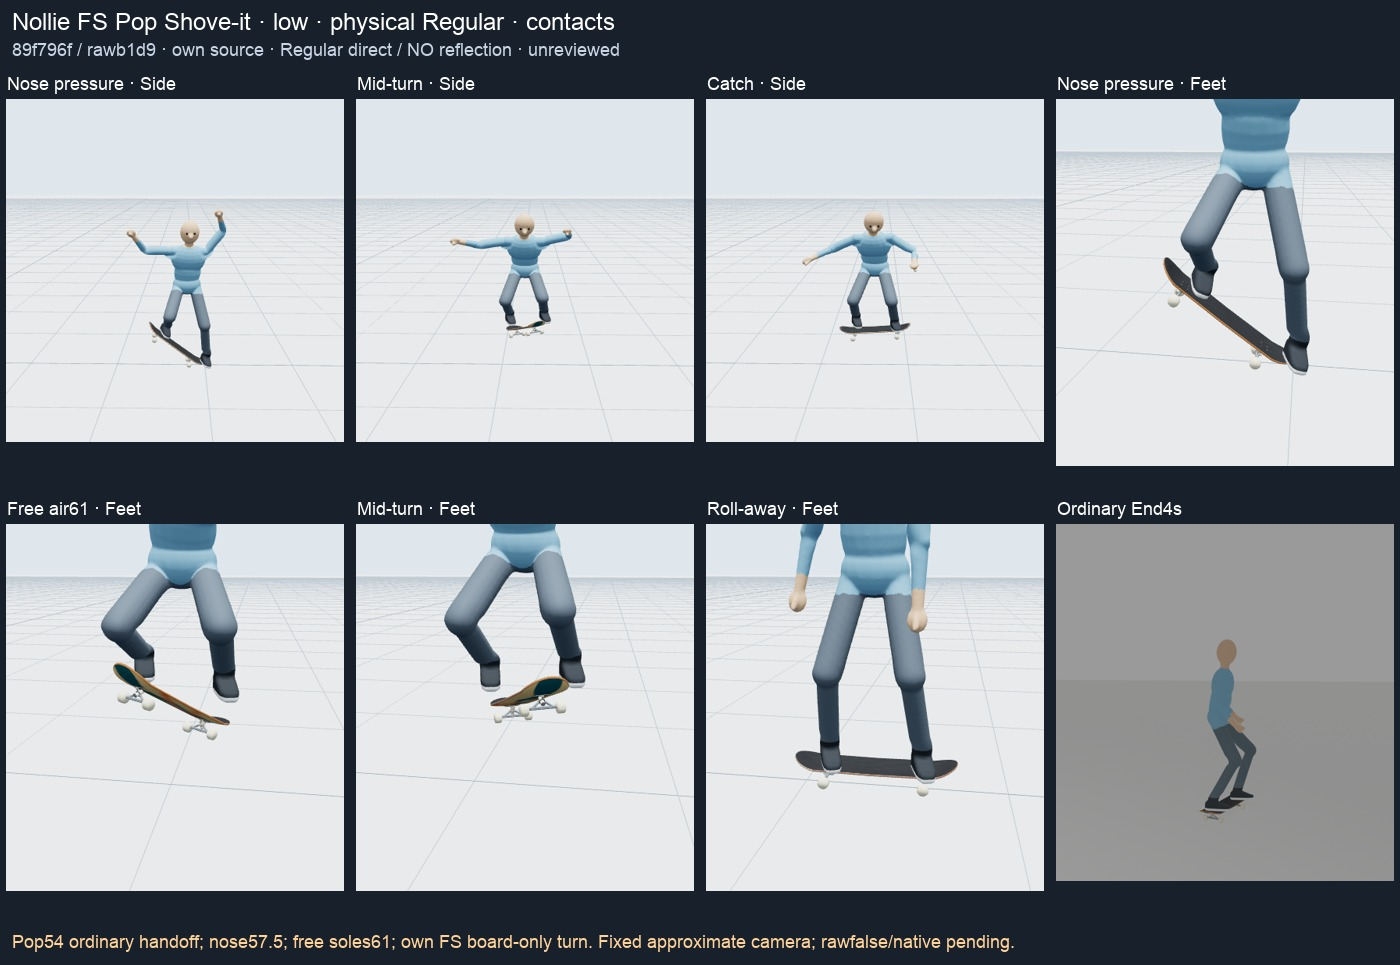
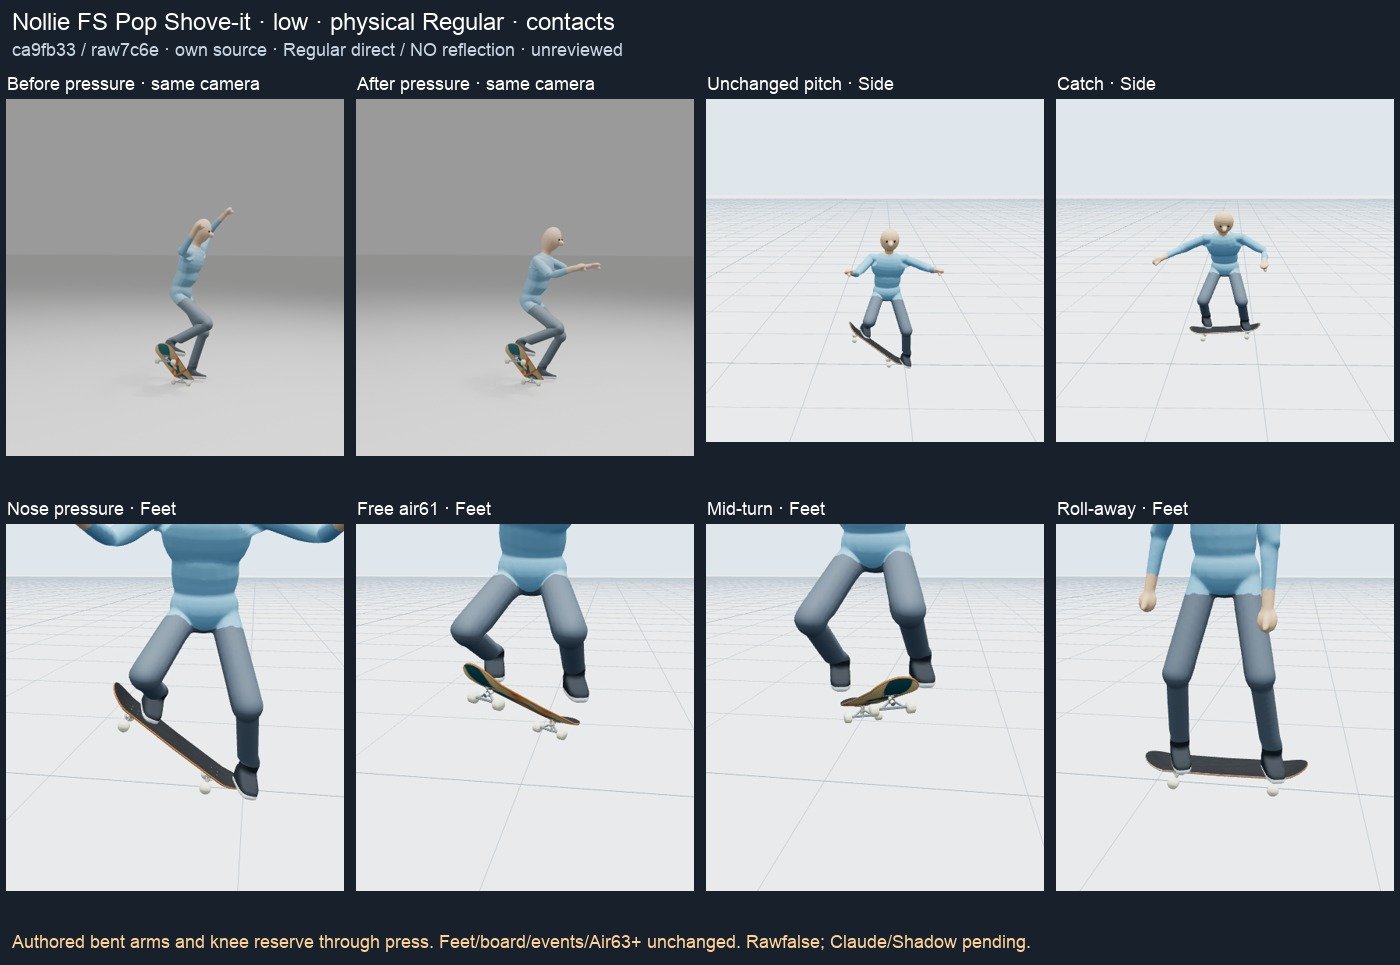
Show repaired Nollie FS press balance on the original rig

diff --git a/docs/review-media/a5-nollie-fs-pop-shove/README.md b/docs/review-media/a5-nollie-fs-pop-shove/README.md
@@ -1,15 +1,17 @@
-# Nollie FS Pop Shove-it — own source and original-rig review
+# Nollie FS Pop Shove-it — press balance repair
 
-[Viewer](http://127.0.0.1:63761/a5-nollie-fs-pop-shove/) · [batch A5 #716](https://github.com/Dj-Shortcut/rust-skate-mod/issues/716) · [genuine source](https://www.youtube.com/watch?v=tL8Ey9GS0xQ&t=182).
+[Viewer](http://127.0.0.1:63761/a5-nollie-fs-balance/) · [A5 review #716](https://github.com/Dj-Shortcut/rust-skate-mod/issues/716#issuecomment-6567110165) · [genuine source](https://www.youtube.com/watch?v=tL8Ey9GS0xQ&t=182).
 
-This uses the continuous black-shirt/cap take in the existing BATB13 excerpt, not the later reviewed/rebated white attempt. Own anatomy checks on approach, pop overlap, tattooed right arm and rollaway support Regular/Left-nose; no source anatomy reflection is applied. Goofy is the explicitly mirrored runtime companion, not another filmed take. The camera is one fixed estimate from the source deck/hip projection; source pixels are never mirrored and no body/native heading rotation is used to hide a mismatch.
+The review rejected the overhead V arms and extended nose-support leg. Both arms now bend around/below shoulder height, and the pelvis lowers through the pressure window. This is an explicitly authored balance correction, not new source measurement. The same-camera before/after and Side details show the change on the original skin and full 13-part skateboard.
 
-The real rider begins rising at 54, presses the nose at 57.5, releases by 59 / free61, catches around 66.5 / both68 and lands 73, then rolls upright. Those are authored visual estimates, not calibrated 3D measurements. Pop54 is the ordinary-charge handoff/extension start, distinct from maximum nose pressure. Source49 at Load is an explicit procedural phase witness. A new-family presentation root blend reaches the source earlier; real Pad input, native flight/landing/scoring and strict support/reach/shoe/floor guards stay authoritative. The body stays unspun while the board alone turns FS180; feet/toe headings are preserved across deck reversal.
+The original deck pitch is retained. Actual animated GLB nose elevation at the published pressure frame is about37° down for normal height and38° for low, in both physical stances. A separate Side view makes that visible; the source camera, native heading and geometry are unchanged. All board, foot, contact and event values remain identical. All215 complete source rows from Air63 onward and all actual Air63+/recovery body rows remain identical to the accepted presentation; the four entire native traces are unchanged.
 
-Own strict VIDEO extraction selected 82/84 frames. Raw frames 68/69 remain rejected; only bracketed control reconstruction bridges them. Animation frames 30–98 excludes the cropped early cap/head; the next actor cut at 104 is excluded. Far left-wrist depth and contacts/pelvis are deliberately reconstructed from this take. No A4 or other-trick body is loaded. Footage and detector output remain private.
+This remains the same continuous black-shirt/cap BATB13 take: raw20–103, animation30–98, next actor cut104 excluded. Regular/Left-nose is supported by the actual leading leg and tattooed-right-arm witnesses; no source anatomy reflection is applied. Goofy is the mirrored runtime companion, not another filmed take. Original reference pixels and detector output stay private. Raw68/69 remain rejected, with the previous explicitly bracketed reconstruction retained.
 
-Eight rig-only phase/contact sheets cover normal/low and physical Regular/Goofy. They use the original skin/inverse binds and full 13-part board. Animated GLB foot-bone audits, not requested-native labels, determine captions: native Goofy displays physical Regular/Left lead; native Regular displays physical Goofy/Right lead. Side and Feet views expose nose pressure, free soles, mid-turn, catch and ordinary recovery.
+The eight rig-only phase/contact sheets cover normal/low and physical Regular/Goofy. Actual animated foot bones determine labels: requested-native Goofy displays physical Regular, requested-native Regular displays physical Goofy. Contact sheets include the same-time pressure before/after, unchanged deck in Side, and free-shoe/catch/rollaway details. The fixed approximate source camera is preserved.
 
-Four real managed Pad/full Step/Land/scorer cases produce Nollie Frontside Pop Shove-it, no flip/body turn, +180 native shove, one pop and no held continuation/bail. Capture remains selected throughout 36 normal and 34 low Air samples, then finishes before ordinary End at 4 s. All four original-rig viewer cases reached End at 1× and ¼×; 36 source-phase seeks and 28 Side/Feet checks completed without console/runtime errors. Actual decoded-source witnesses stay private. This is controlled managed/original-rig verification, not native Rust or Shadow execution. Raw remains reviewed=false; Claude alone owns the offline verdict/library and Shadow acceptance remains open.
+Four genuine managed Pad/full Step/Land/scorer cases pass with Nollie Frontside Pop Shove-it, +180 native shove, no flip/body turn, one pop and no held continuation or bail. All36 normal and34 low Air samples remain captured. Each original-rig viewer completes1× and¼× through ordinary End4s. The36 settled source seeks have actual decoded-frame callbacks within one source frame;28 Side/Feet and28 pressure-transition views show no console/runtime errors. The inspected53–63 progression does not introduce a second knee/root bounce.
 
-A later provenance-only correction replaces an obsolete white-actor sourceIdentity string in captured-body with the actual own black actor20–103 /animation30–98. Every other body byte, all419 baked frames/events and the entire raw binary remain identical. The original rendered freeze and its recorded body hash stay explicit; manifest.sourceIdentityCorrection records the corrected control hash and unchanged raw hash. No rerender, pose change or new approval is implied.
+PR#726 was a separate historical metadata-only correction: it fixed an obsolete white-actor description while the then-current rawb1d994 and89f796f rig media stayed unchanged. This later balance repair changes motion to raw7c6e754 and rerenders at ca9fb33. The corrected source-body file c2372fa remains unchanged. The manifest keeps those two steps distinct.
+
+Raw remains reviewed=false. This is controlled managed/original-rig verification, not native Rust/Shadow execution. Claude owns the offline verdict/library; Shadow acceptance is still open.

diff --git a/assets/authored/animation/nollie-fs-pop-shove-keyed/README.md b/assets/authored/animation/nollie-fs-pop-shove-keyed/README.md
@@ -8,10 +8,12 @@ The executable scripts/author_skate_nollie_fs_pop_shove.py validates body/geomet
 
 Pop54 is the actual extension start visible in dense54/55, distinct from maximum nose pressure57.5. Release59/free61, catch66.5/both68 and Land73 stay fixed. This corrects the source marker; native flight and shared clocks are unchanged. Private source-camera projection is estimated independently; no torso/arm change is made to compensate for a wrong view.
 
[1 lines of base64/hex data omitted]
+In PR#726, only the obsolete sourceIdentity description and its dependent hash changed. All other body bytes, all419 baked frames/events and the then-current rawb1d994 remained exact; the then-existing89f796f media stayed frozen. This was historical metadata-only work. The separate balance correction below changes motion/raw and rerenders while retaining the corrected c237 source-body file.
 
 ## Authored press balance correction
 
 The A5 visual review rejected the overhead V arms and the extended supporting leg at nose pressure. A bounded authored override now bends both arms around or below shoulder height and lowers the pelvis during54–61, fading completely by63. This reconstructs balance and knee reserve rather than claiming new source measurement. The original black actor identity and c237 body file stay unchanged.
 
 Nose pitch is preserved: the actual original-rig GLB deck axis was36.86° down for normal height and38° for low height at the published press frame, within the requested35–45° range. A clear side view accompanies the same fixed source camera; no camera/heading/geometry change hides the projection. Feet, board, source/event timing and all motion from Air63 through Catch/Land/rollaway are unchanged. The raw pack remains reviewed=false; source/mesh replay verification and Claude/Shadow decisions remain separate.
+
+The balance repair has four actual managed cases and four complete1×/¼× original-rig replay pairs, with same-time pressure before/after and Side/feet details in `docs/review-media/a5-nollie-fs-pop-shove/`. All native traces, board/feet/events and actual body rows from Air63 onward remain unchanged. Claude/offline and Shadow acceptance remain separate.
